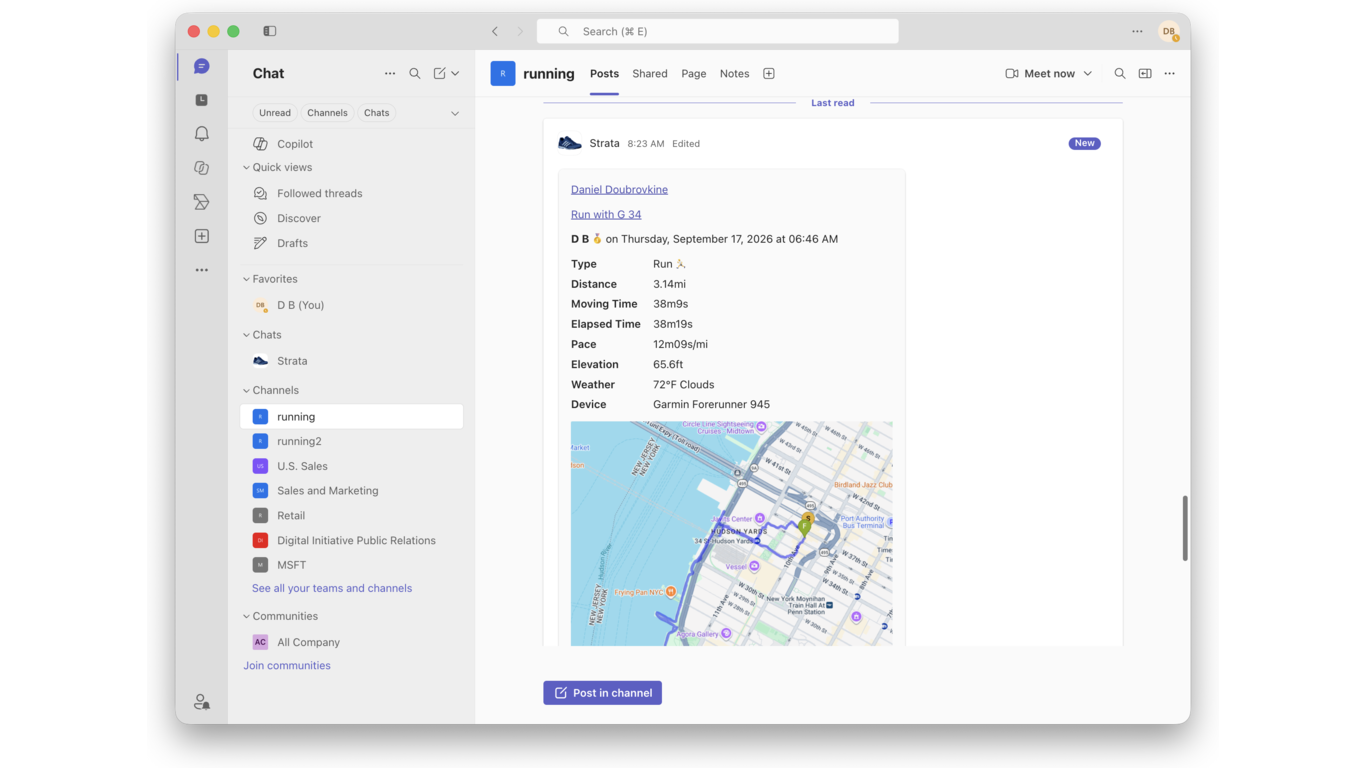
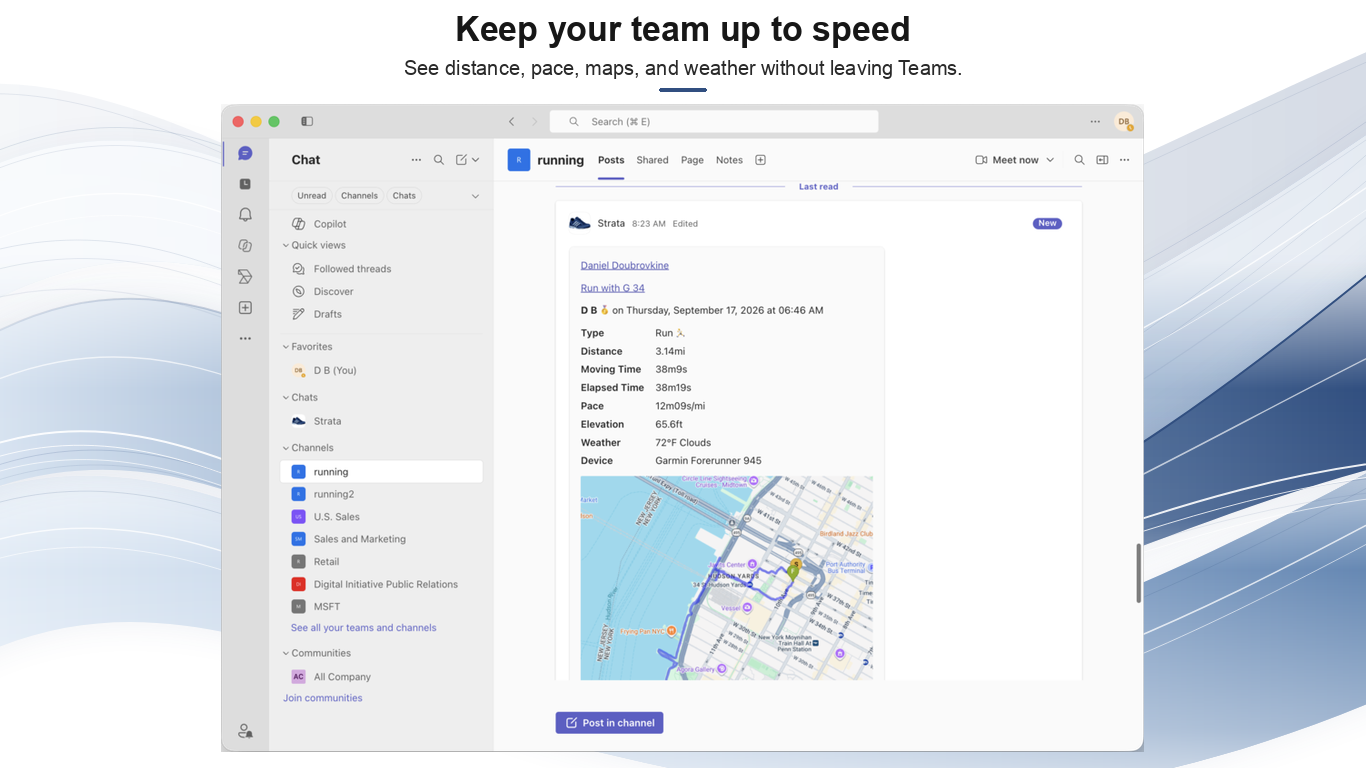
Add captions and a reusable background for Teams Store screenshots (#7)

diff --git a/store/listing.md b/store/listing.md
@@ -57,6 +57,23 @@ Daniel Doubrovkine, Vestris LLC - dblock@vestris.com
 - Privacy: https://strata.playplay.io/privacy
 - Terms of use: https://strata.playplay.io/terms
 
+## Screenshots
+
+Upload the captioned PNG files in `store/screenshots/` in the order below. Each image is 1366x768 pixels and under 1,024 KB, with dark feature headlines and supporting captions on an original layered blue ribbon background above the existing Teams interface. The palette uses the shoe logo's primary blue, `#314F80`, with lighter tints and overlapping ribbons to reduce empty white space. These are desktop screenshots; mobile screenshots remain a separate recommendation.
+
+| File | Headline | Caption |
+| --- | --- | --- |
+| `1-marathon.png` | Celebrate every finish | Share activity stats and route maps in your team channel. |
+| `2-connect-strava.png` | Connect Strata | Authorize your Strava account in Teams to start sharing activities. |
+| `3-activity-post.png` | Keep your team up to speed | See distance, pace, maps, and weather without leaving Teams. |
+| `4-settings.png` | Make Strata work for your team | Choose activity types, units, maps, and posting limits. |
+
+### Creating another screenshot
+
+Reuse [screenshot-background.png](screenshot-background.png), the original 1366x768 abstract canvas without captions or app UI. The editable vector source is [screenshot-background.svg](screenshot-background.svg); export it at its intrinsic 1366x768 size when changing the artwork. These are source assets, not additional screenshots to upload to the Store.
+
+Center the headline at x=683, top=16 using Arial Bold at 34px in `#171717`, and the supporting caption at x=683, top=60 using Arial at 20px in `#292929`. Add a 48x4px `#314F80` divider centered horizontally at top=88. Remove unused margins from the Teams capture, preserve its aspect ratio, and fit the complete window within 1318x648px, horizontally centered at top=104. Do not cover app UI with captions. Export at 1366x768 and keep the PNG under 1,024 KB.
+
 ## Testing instructions for reviewers
 
 Reviewers will need a Strava account to test the `connect` flow. Strava

diff --git a/CHANGELOG.md b/CHANGELOG.md
@@ -1,5 +1,6 @@
 ### Changelog
 
+* 2026/10/24: Add feature headlines and captions to all four Teams Store screenshots, with a reusable blue ribbon background, for validation issue #7 - [@dblock](https://github.com/dblock), [@Copilot](https://github.com/apps/copilot-swe-agent).
 * 2026/10/24: Use Strata as the app name across the website and manifest; update the Store package and certification instructions for manifest version 1.0.2 - [@dblock](https://github.com/dblock), [@Copilot](https://github.com/apps/copilot-swe-agent).
 * 2026/10/24: Fix Teams commands being rejected after Microsoft signing-key rotation using `ruby-jwt` verification and JavaScript-style signing-key caching from [teams_rb#12](https://github.com/bavmind/teams_rb/pull/12) - [@dblock](https://github.com/dblock), [@Copilot](https://github.com/apps/copilot-swe-agent).
 * 2026/10/23: Upgrade Ruby to 4.0.9 and refresh dependencies, leaving Stripe dependencies unchanged - [@dblock](https://github.com/dblock), [@Copilot](https://github.com/apps/copilot-swe-agent).
